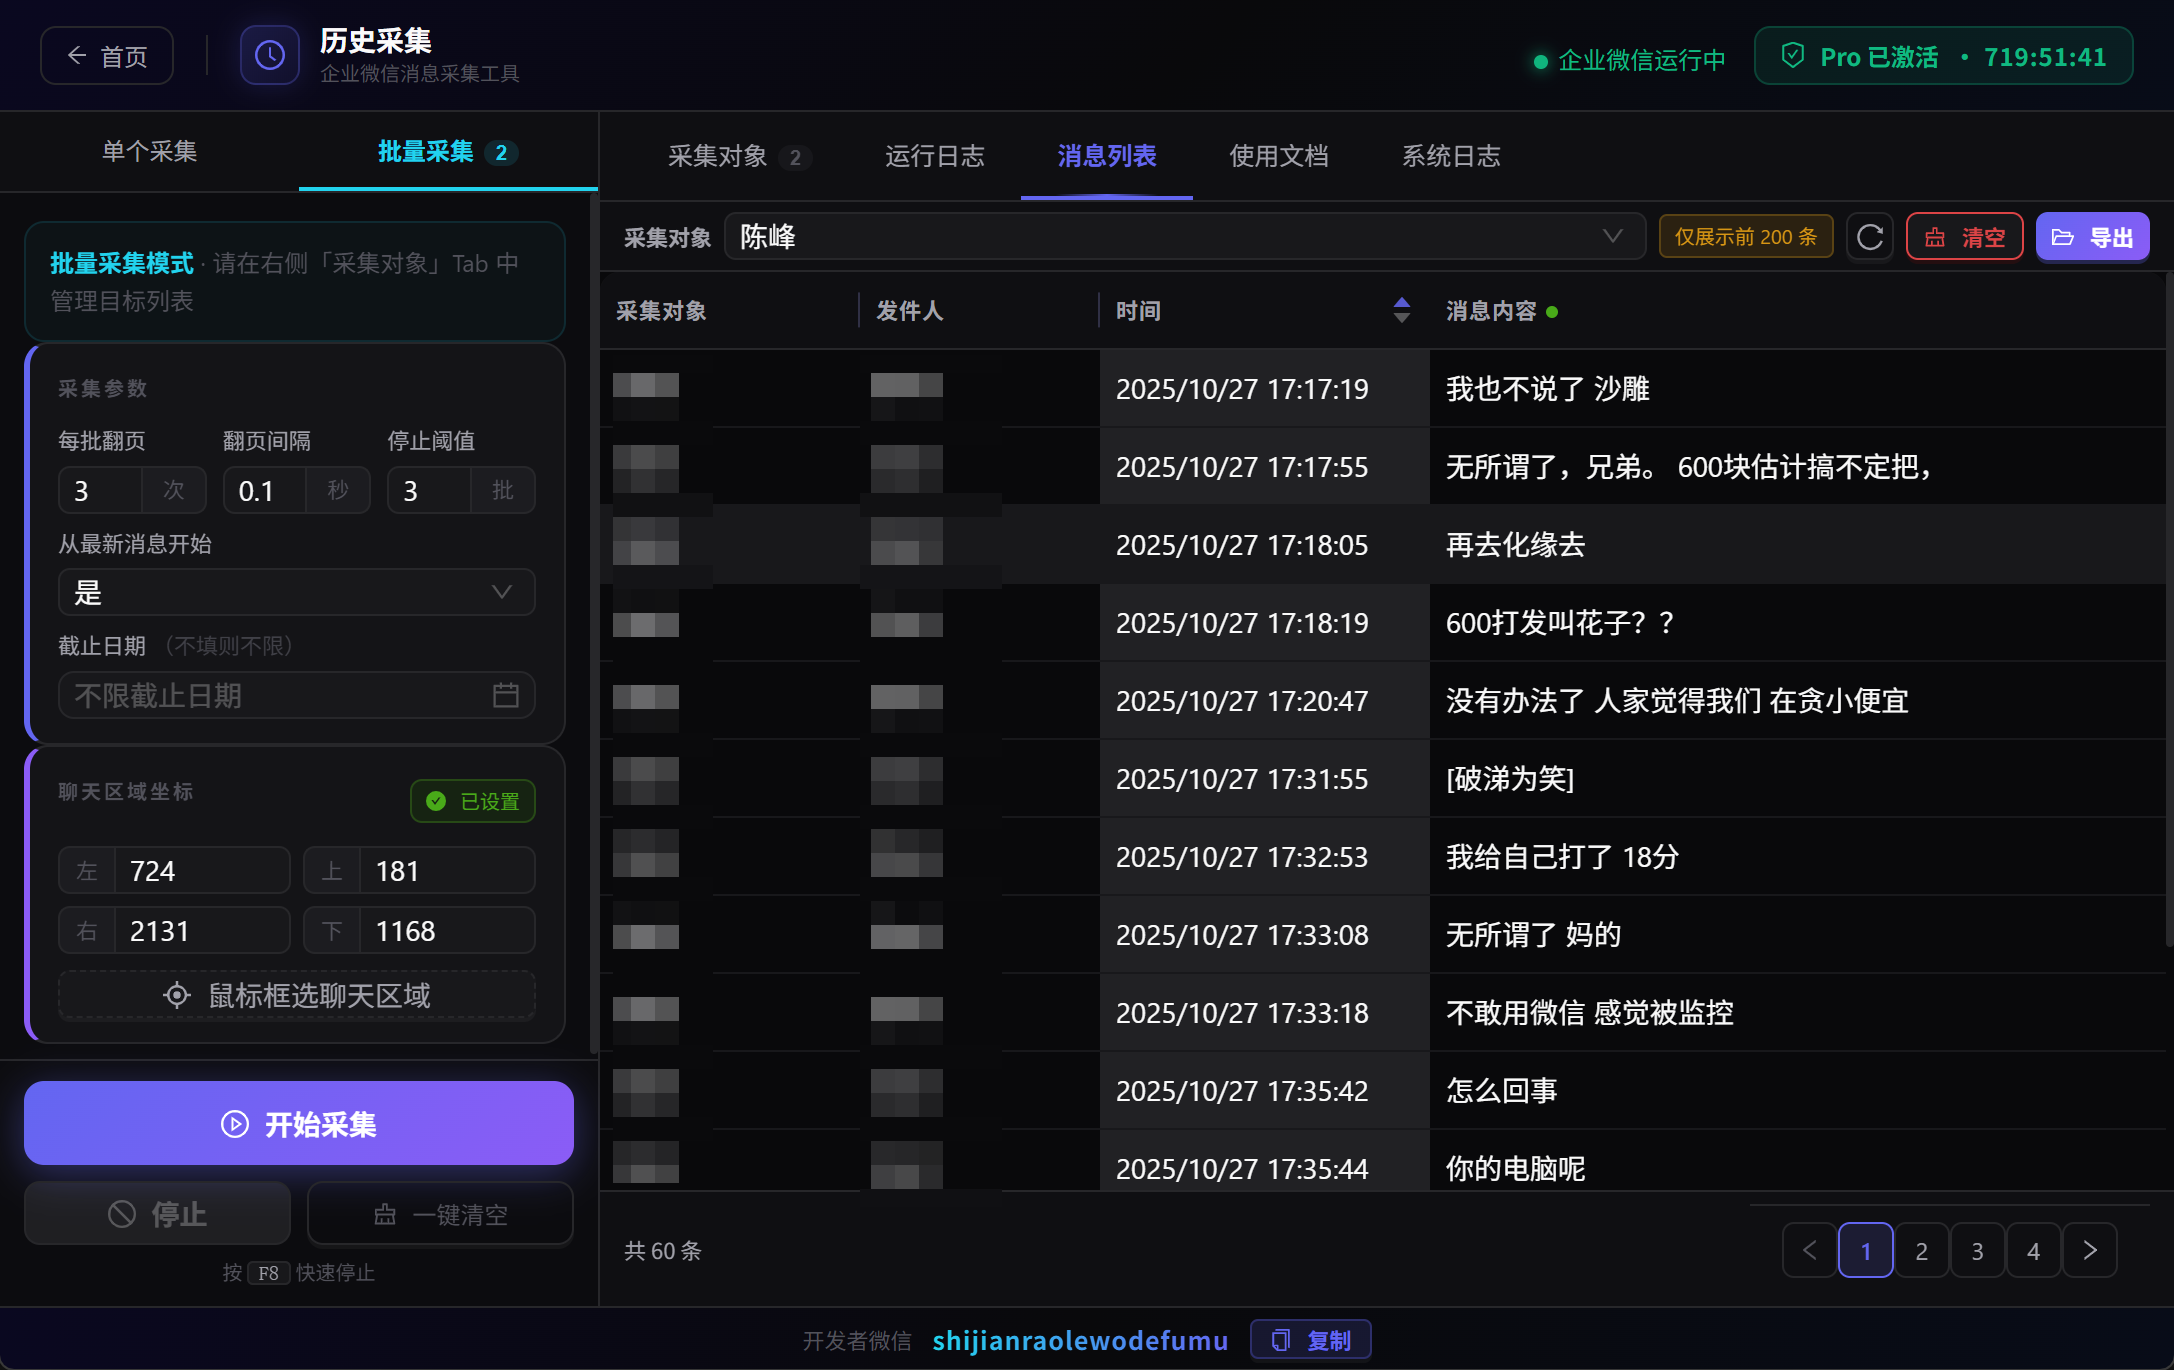
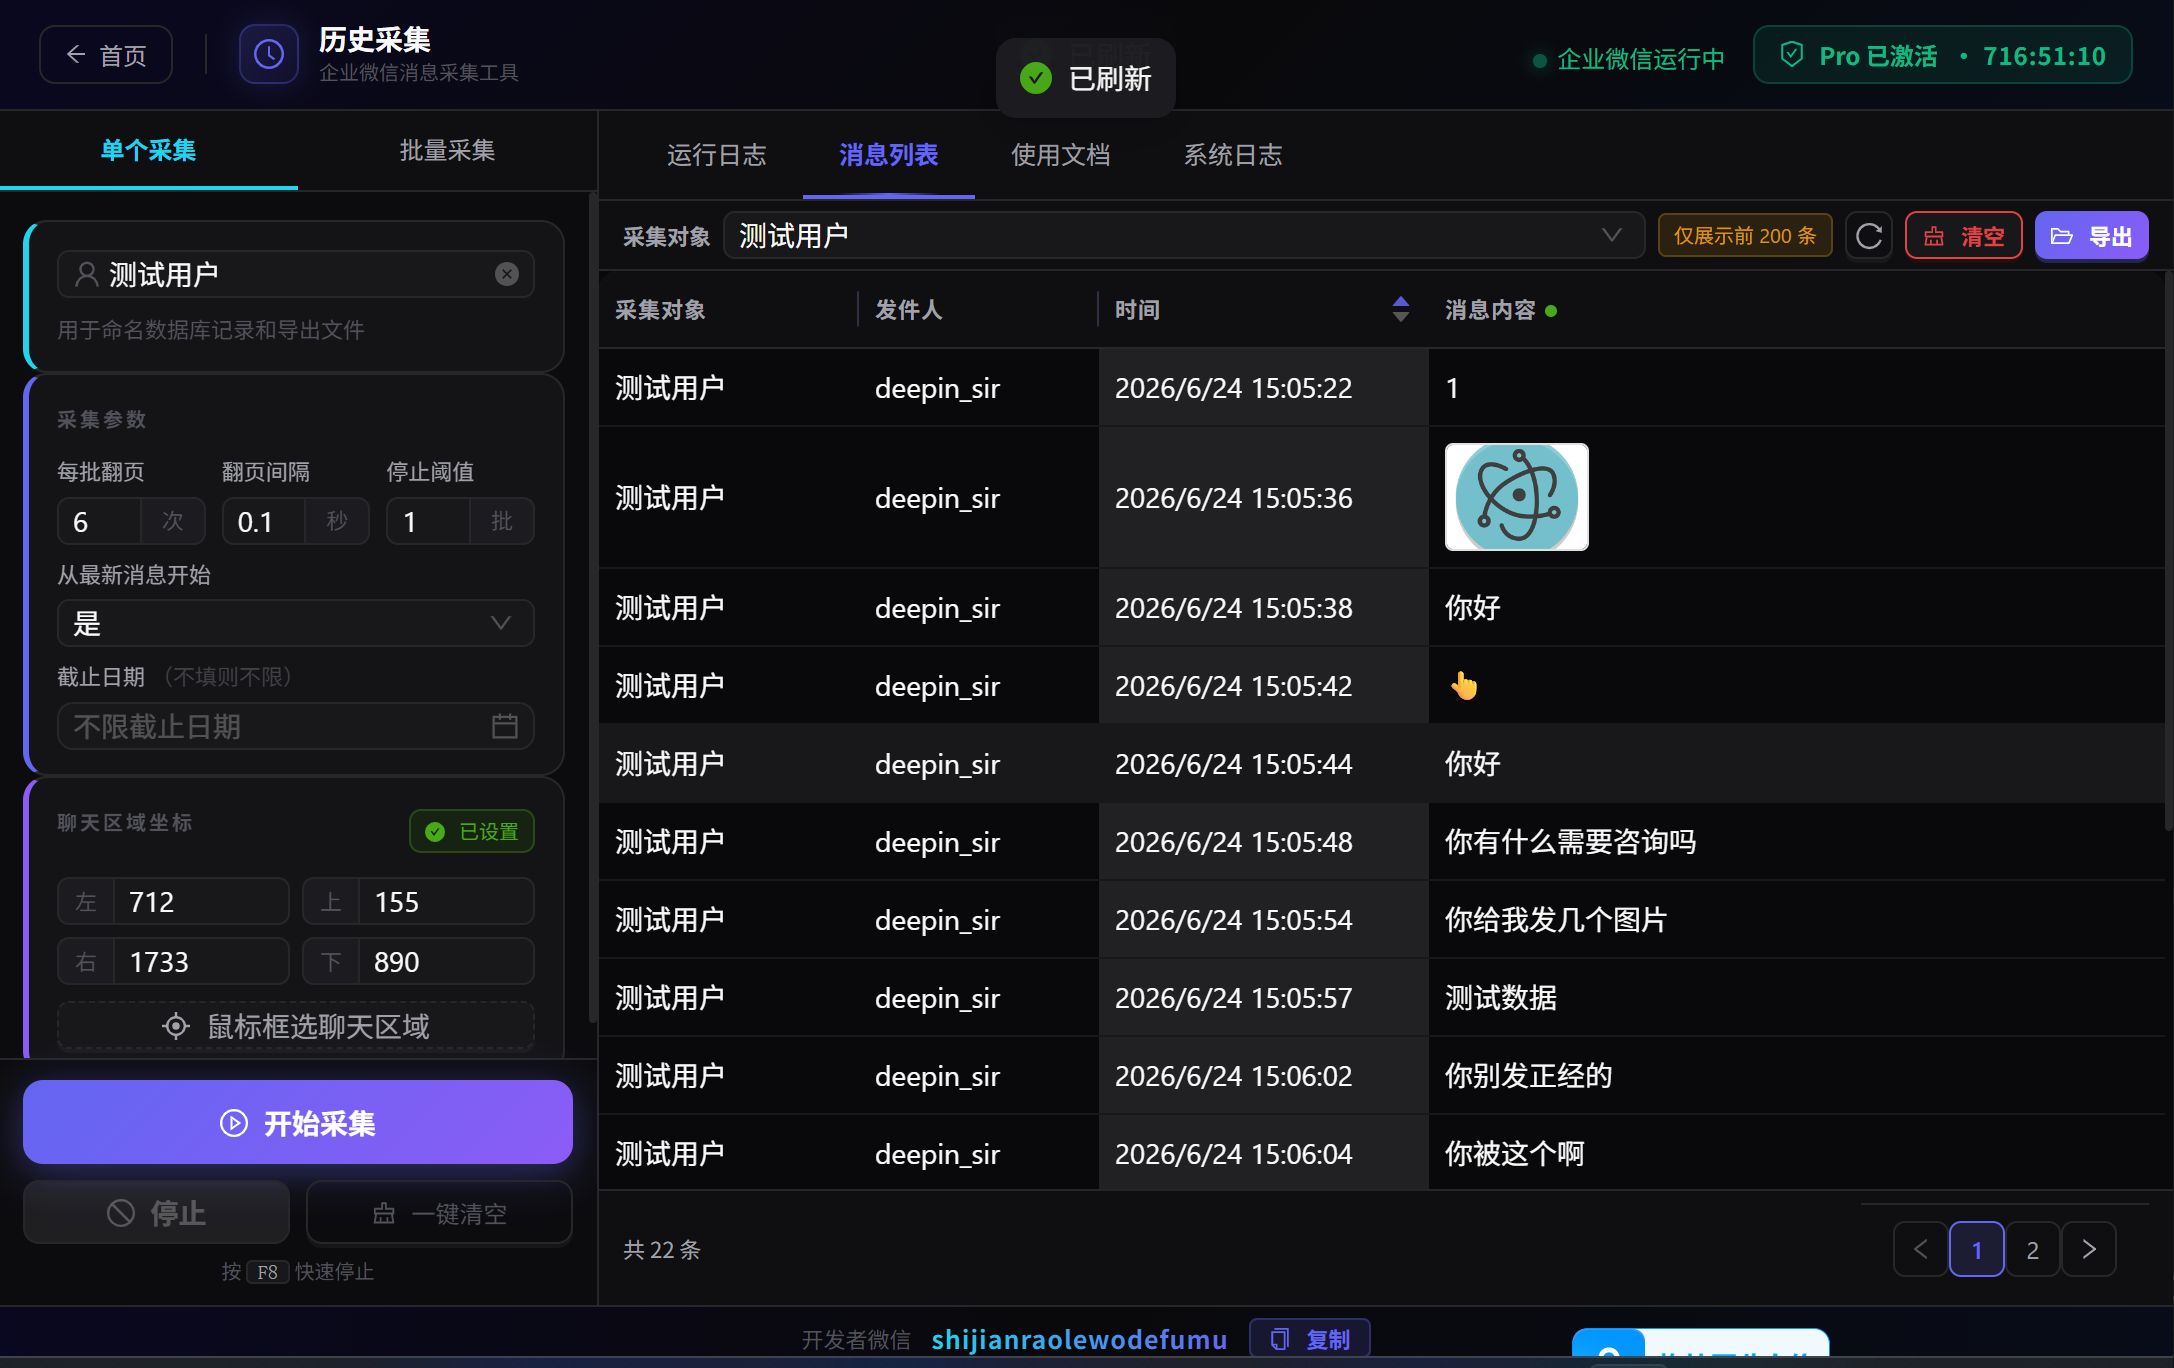
更新

diff --git a/README.md b/README.md
@@ -14,6 +14,7 @@
 |------|----------|
 | **历史采集** | 一次性导出联系人/群聊的全部历史聊天记录，支持会话存档 |
 | **定时监控** | 持续自动采集新消息，每次只写入增量，智能去重 |
+| **图片下载** | 自动识别消息中的图片并下载保存到本地，与消息记录一并归档 |
 | **智能回复** | *(即将上线)* AI 读懂对话，自动生成回复草稿 |
 
 ---
@@ -55,6 +56,9 @@
 | 采集对象 | 发件人 | 时间 | 消息内容 |
 |----------|--------|------|----------|
 | 项目Alpha客户群 | 张三 | 2025/06/01 14:32:18 | 好的，这个方案我们同意 |
+| 项目Alpha客户群 | 李四 | 2025/06/01 14:35:07 | [图片] → 本地路径 images/20250601_143507.png |
+
+图片消息会自动下载并保存到 Excel 同级目录的 `images/` 文件夹，表格中记录对应本地路径，离线也能查阅。
 
 ---
 
@@ -78,7 +82,7 @@
 
 **采集时企业微信能最小化吗？** 不能。需保持界面可见，建议用副屏或单独一台电脑运行。
 
-**支持哪些消息类型？** 目前支持文字消息，图片/文件/语音等后续扩展。
+**支持哪些消息类型？** 目前支持文字消息和图片消息（图片自动下载到本地）；文件/语音等类型后续扩展。
 
 **数据会上传服务器吗？** 不会。所有数据只存本地，不上传任何第三方。
 